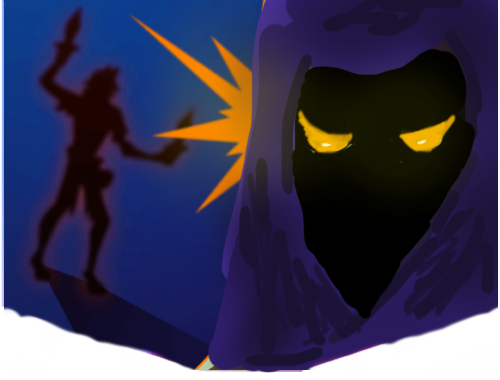
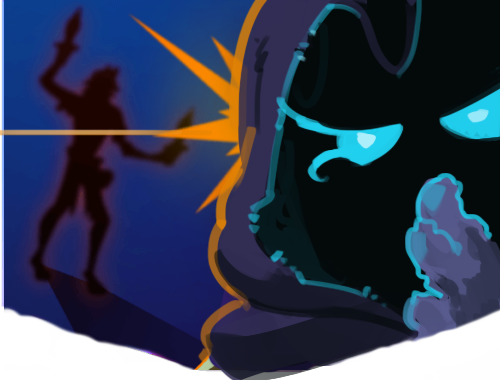
update character artwork

diff --git a/src/main/java/thecursed/enums/TheCursedCharEnum.java b/src/main/java/thecursed/enums/TheCursedCharEnum.java
@@ -11,7 +11,6 @@ import thecursed.cards.skill.*;
 import thecursed.relics.*;
 
 import java.util.ArrayList;
-import java.util.Arrays;
 import java.util.List;
 
 public class TheCursedCharEnum {
@@ -196,13 +195,6 @@ public class TheCursedCharEnum {
         @Override
         public String toString() {
             return themeId;
-        }
-
-        public static Theme fromString(String id) {
-            return Arrays.stream(Theme.values())
-                    .filter(theme -> theme.themeId == id)
-                    .findFirst()
-                    .orElseThrow(() -> new IllegalArgumentException("Unknown theme ID: " + id));
         }
     }
 }

diff --git a/README.md b/README.md
@@ -20,3 +20,6 @@ Bleeding creature loses HP whenever it attacks. Each turn, Bleed is reduced by 1
 
 ## Known Issues
 - Googly Eyes mod is not fully supported. The character in combat is just a single png file, and it’s unable to add an eye on it.
+
+## Credit
+Special thanks to 히말군 for character artwork.
